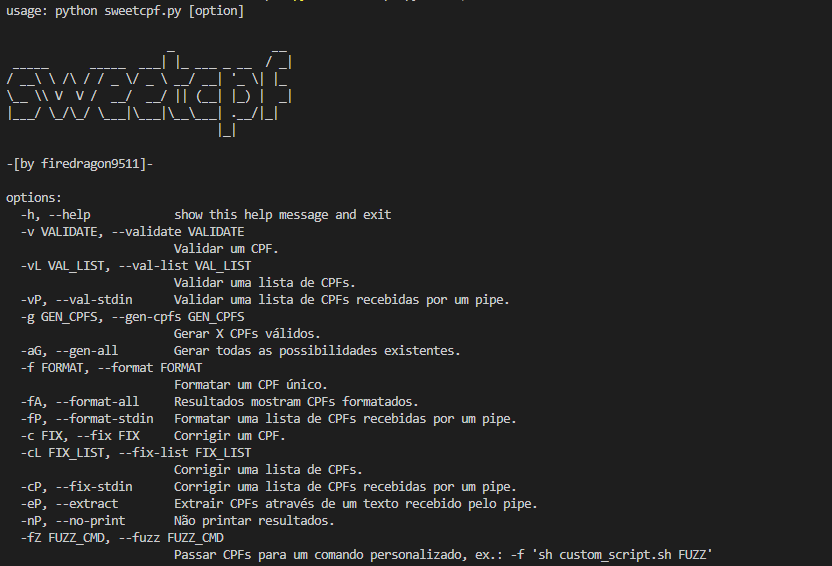
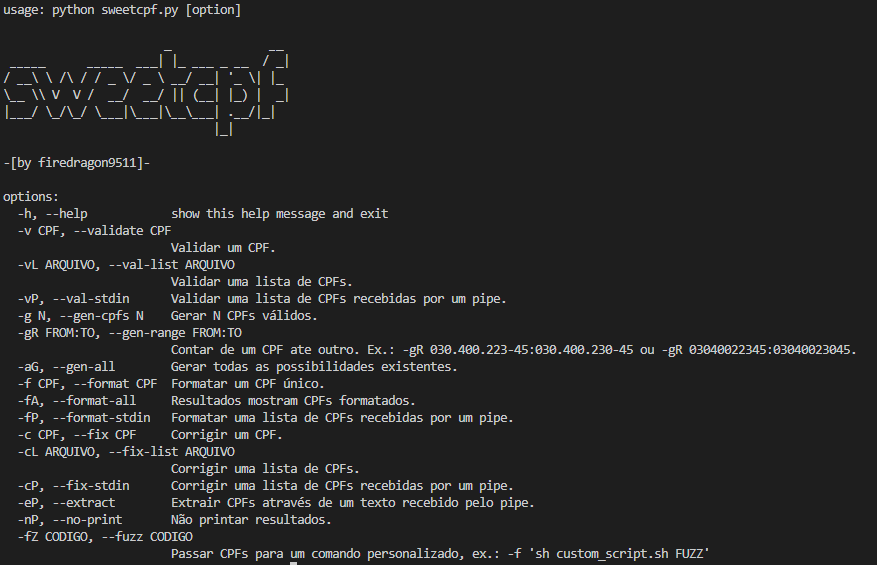
Added Shebang Line

diff --git a/sweetcpf.py b/sweetcpf.py
@@ -51,41 +51,45 @@ def process_args():
 
     if args.format_stdin:
         cpfUtils.format_stdin()
-        pass
 
     if args.fix is not None:
         cpfUtils.pipe(cpfUtils.fix_cpf(args.fix))
-        pass
 
     if args.fix_list is not None:
         cpfUtils.fix_list(args.fix_list)
-        pass
 
     if args.fix_stdin:
         cpfUtils.fix_stdin()
-        pass
 
     if args.extract_pipe:
         cpfUtils.extract_cpfs_stdin()
+
+    if args.gen_range is not None:
+        if ':' in args.gen_range:
+            arr = args.gen_range.split(':')
+            cpfUtils.from_to(arr[0], arr[1])
+        else:
+            cpfUtils.pipe('É necessário especificar os parametros corretamente. Ex.: -gR 030.400.223-45:030.400.230-45 ou -gR 03040022345:03040023045.')
 
 
 def init():
     global args, cpfUtils
     parser = argparse.ArgumentParser(description=banner(), formatter_class=RawTextHelpFormatter, usage="python sweetcpf.py [option]")
-    parser.add_argument('-v','--validate', dest='validate', action='store', type=str, help='Validar um CPF.', required=False)
-    parser.add_argument('-vL','--val-list', dest='val_list', action='store', type=str, help='Validar uma lista de CPFs.', required=False)
+    parser.add_argument('-v','--validate', dest='validate', action='store', type=str, help='Validar um CPF.', required=False, metavar='CPF')
+    parser.add_argument('-vL','--val-list', dest='val_list', action='store', type=str, help='Validar uma lista de CPFs.', required=False, metavar='ARQUIVO')
     parser.add_argument('-vP','--val-stdin', dest='val_stdin', help='Validar uma lista de CPFs recebidas por um pipe.', default=False, required=False, action='store_true')
-    parser.add_argument('-g','--gen-cpfs', dest='gen_cpfs', action='store', type=int, help='Gerar X CPFs válidos.', required=False)
+    parser.add_argument('-g','--gen-cpfs', dest='gen_cpfs', action='store', type=int, help='Gerar N CPFs válidos.', required=False, metavar='N')
+    parser.add_argument('-gR','--gen-range', dest='gen_range', action='store', type=str, help='Contar de um CPF ate outro. Ex.: -gR 030.400.223-45:030.400.230-45 ou -gR 03040022345:03040023045.', required=False, metavar='FROM:TO')
     parser.add_argument('-aG','--gen-all', dest='gen_all', help='Gerar todas as possibilidades existentes.', default=False, required=False, action='store_true')
-    parser.add_argument('-f', '--format', dest='format', help='Formatar um CPF único.', type=str, required=False)
+    parser.add_argument('-f', '--format', dest='format', help='Formatar um CPF único.', type=str, required=False, metavar='CPF')
     parser.add_argument('-fA', '--format-all', dest='format_cpf', help='Resultados mostram CPFs formatados.', default=False, action='store_true')
     parser.add_argument('-fP', '--format-stdin', dest='format_stdin', help='Formatar uma lista de CPFs recebidas por um pipe.', default=False, action='store_true')
-    parser.add_argument('-c','--fix', dest='fix', action='store', type=str, help='Corrigir um CPF.', required=False)
-    parser.add_argument('-cL','--fix-list', dest='fix_list', action='store', type=str, help='Corrigir uma lista de CPFs.', required=False)
+    parser.add_argument('-c','--fix', dest='fix', action='store', type=str, help='Corrigir um CPF.', required=False, metavar='CPF')
+    parser.add_argument('-cL','--fix-list', dest='fix_list', action='store', type=str, help='Corrigir uma lista de CPFs.', required=False, metavar='ARQUIVO')
     parser.add_argument('-cP','--fix-stdin', dest='fix_stdin', help='Corrigir uma lista de CPFs recebidas por um pipe.', default=False, required=False, action='store_true')
     parser.add_argument('-eP','--extract', dest='extract_pipe', help='Extrair CPFs através de um texto recebido pelo pipe.', required=False, action='store_true')
     parser.add_argument('-nP','--no-print', dest='no_print', help='Não printar resultados.', default=False, required=False,  action='store_true')
-    parser.add_argument('-fZ','--fuzz', dest='fuzz_cmd', action='store', type=str, help='Passar CPFs para um comando personalizado, ex.: -f \'sh custom_script.sh FUZZ\'', required=False)
+    parser.add_argument('-fZ','--fuzz', dest='fuzz_cmd', action='store', type=str, help='Passar CPFs para um comando personalizado, ex.: -f \'sh custom_script.sh FUZZ\'', required=False,  metavar='CODIGO')
 
     args=parser.parse_args()
 

diff --git a/lib/cpf_utils.py b/lib/cpf_utils.py
@@ -154,3 +154,17 @@ class CPFUtils:
             if self.validate(cpf):
                 arr2_final.append(cpf)
         return arr + arr2_final
+
+    
+    def from_to(self, from_cpf, to_cpf):
+        from_cpf = int(self.clear_cpf(from_cpf)[:9])
+        to_cpf = int(self.clear_cpf(to_cpf)[:9])
+        def padding(cpf_n):
+            cpf_n = str(cpf_n)
+            return ('0' * (9 - len(cpf_n))) + cpf_n
+
+        for cpf in range(from_cpf, to_cpf + 1):
+            self.pipe(self.fix_cpf(padding(cpf)))
+
+        return
+        
